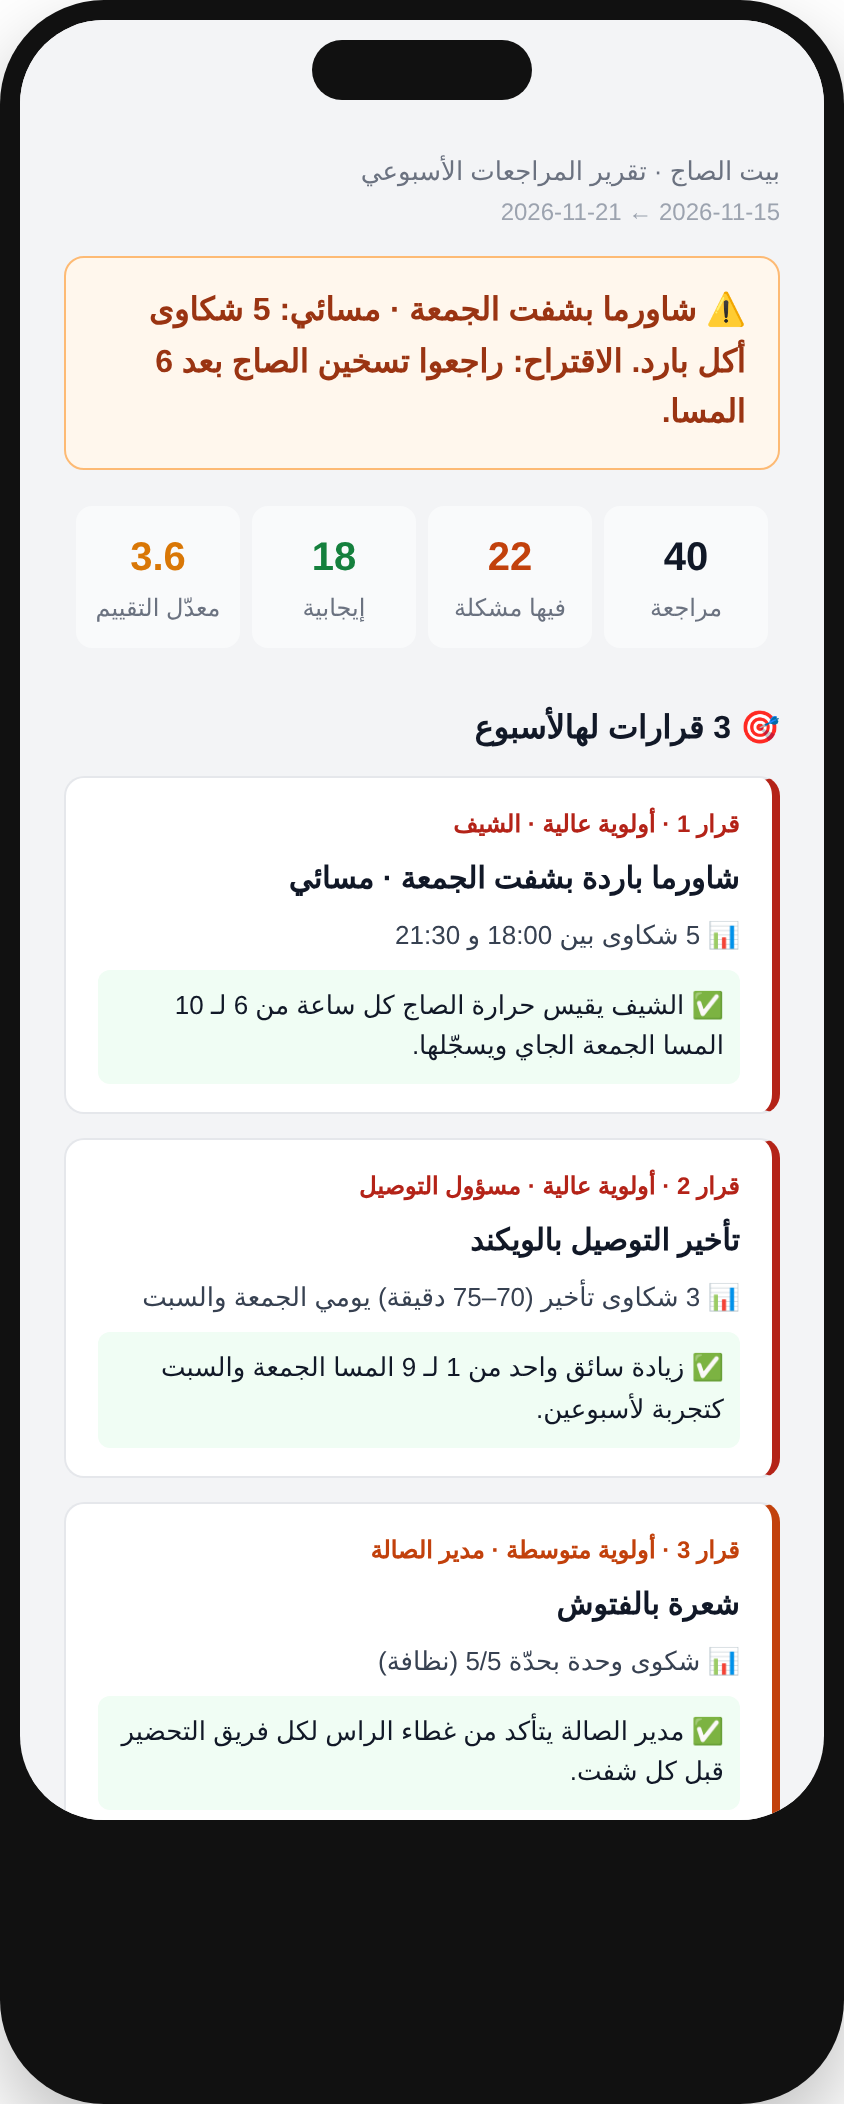
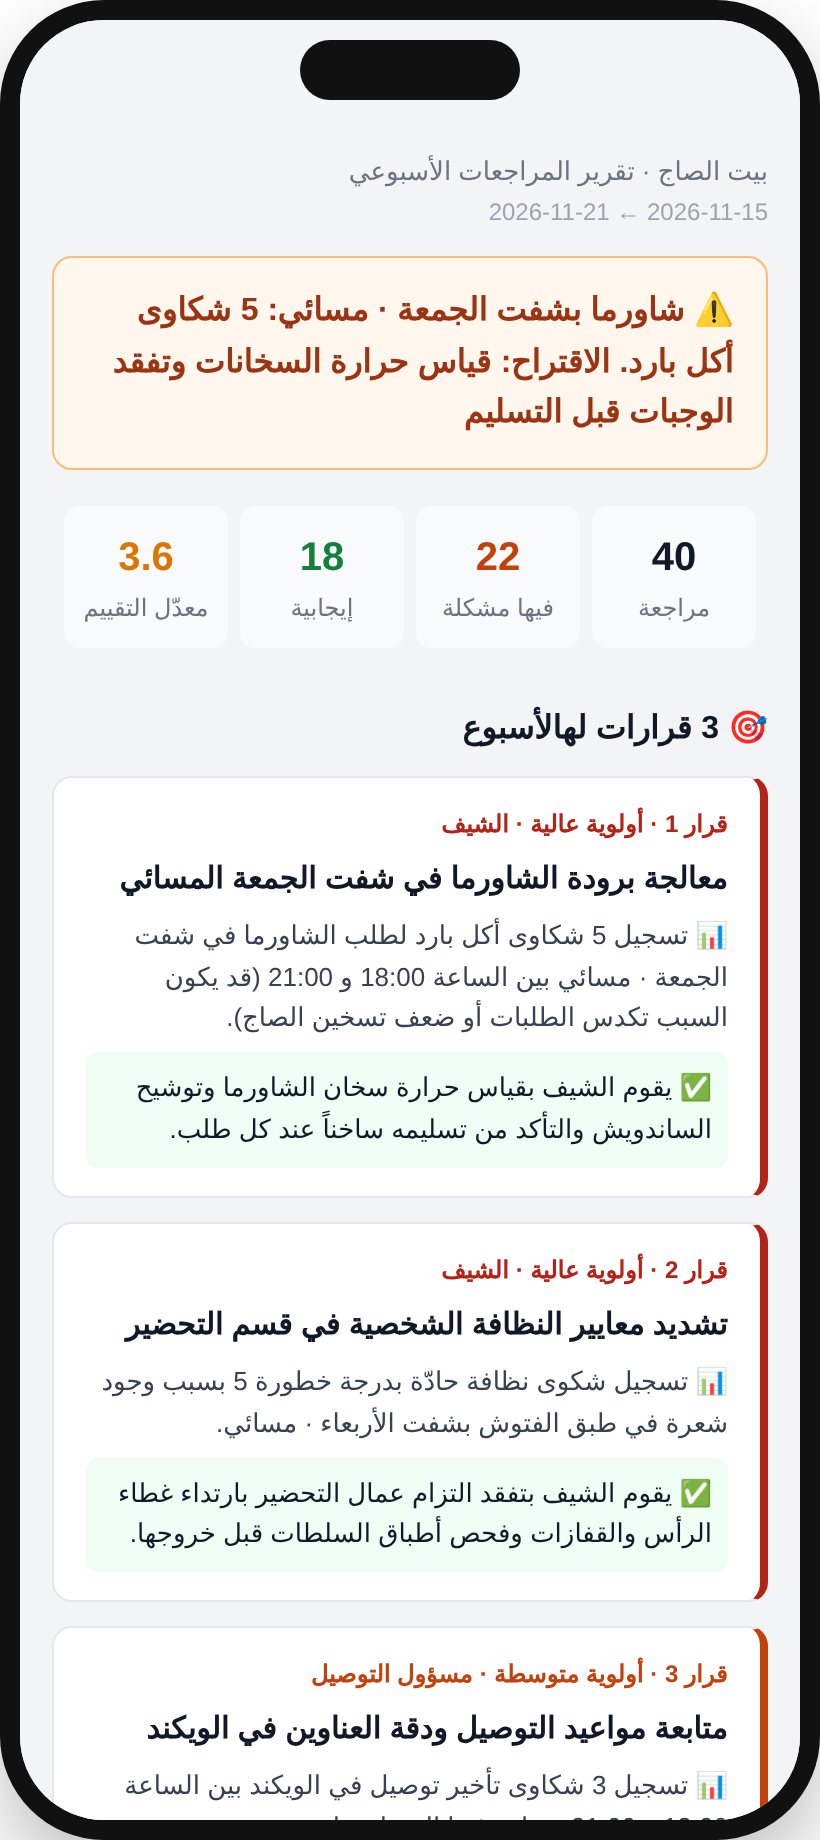
First real run: 40/40 problem detection, 39/40 dish and issue type
- README shows the real email from the run and the measured accuracy
- 'what the plan missed' gains the batching and model-name lessons
- SETUP timing updated (about 100 s per run)

Claude-Session: https://claude.ai/code/session_01WSoAZhBjBkVVjQmiH7nJiS

diff --git a/README.md b/README.md
@@ -37,7 +37,7 @@ These are reviews from the demo data, in Arabic, dialect and English, the way th
 
 **Draft replies.** One per unhappy review, in the customer's language, worst first. They never promise a refund and never blame the customer. Someone still reads them before posting.
 
-<sub>From the offline test. The numbers and tables are real output of the workflow's code. The decision and reply wording is a stand-in, because the model isn't called in that test.</sub>
+<sub>The real email from the first successful run in n8n, with Gemini writing the decisions and replies.</sub>
 
 </td>
 </tr>
@@ -119,7 +119,18 @@ $ node dev/run-local.mjs
 ✅ sheet write-back has exactly the label columns
 ```
 
-This checks the plumbing. How well the model itself tags the reviews gets measured on the first real run, against the same file.
+This checks the plumbing. The model itself was measured on the first real run, against the same file:
+
+| On the real run (Gemini) | Result |
+|---|---|
+| Problem or not | **40 / 40** |
+| Right dish | **39 / 40** |
+| Right problem type | **39 / 40** |
+| The 5 planted cold-shawarma reviews | all 5, all on Friday evening |
+| Hair in the fattoush | hygiene, severity 5 |
+| Last week's reviews | untouched |
+
+The two misses are honest grey areas: R002 complains about the fries in a review that praises the shawarma, and R014's "pricey for the portion size" came out as portion instead of price.
 
 </details>
 
@@ -134,7 +145,9 @@ This checks the plumbing. How well the model itself tags the reviews gets measur
 | The dish as free text | A closed menu list, or the same dish splits into three names. |
 | One grouping: dish × shift × problem | Three. Late deliveries are a weekend pattern spread over shifts, and one grouping hid them. |
 | Nothing on severity | A written 0–5 scale, and single complaints of 4+ always reach the decisions. |
-| The OpenAI node, and an OpenAI key | One HTTP request to any OpenAI-compatible API. I didn't have an OpenAI key, so it runs on Gemini's free tier, one review every 6.5 seconds. Switching provider is two lines in Config. |
+| The OpenAI node, and an OpenAI key | One HTTP request to any OpenAI-compatible API. I didn't have an OpenAI key, so it runs on Gemini's free tier. Switching provider is two lines in Config. |
+| One model call per review | **One call for the whole week.** The first real run sent 41 calls and sat for 10 minutes retrying. Batched, a run takes about 1.5 minutes and two calls. |
+| Pick a model name and move on | The first name I chose was retired for new keys (404), the newest one was overloaded (503). I listed the models the key can use and picked a stable one. |
 | Trust the model's output format | `json_schema` asks for the lists, and code checks every answer anyway, because not every provider enforces the schema strictly. |
 | "Read this week's reviews" | A filter with a demo date, and date parsing for both text and Sheets' serial numbers. |
 | Nothing on bad answers | Validation that flags the review and lets the run continue. |
@@ -249,7 +262,7 @@ Schedule (أحد 9:00)
 2. Import [`data/reviews.csv`](data/reviews.csv) into a new Google Sheet.
 3. In the **Config** node, set `sheet_id`, `sheet_tab` (the tab's name) and `report_to`.
 4. Connect Google Sheets and Gmail, plus a **Header Auth** credential for the model: name `Authorization`, value `Bearer <your key>` (a free Gemini key from Google AI Studio works). Set `D0 · error-alert` as the error workflow in Settings.
-5. Run **Execute workflow**. On the free tier the email arrives in about 5 minutes, because reviews are sent one at a time to stay under the rate limit. For production, clear `reference_date` and publish.
+5. Run **Execute workflow**. The email arrives in about 2 minutes. For production, clear `reference_date` and publish.
 
 Full setup in Arabic, including Google OAuth and costs: [`docs/SETUP.md`](docs/SETUP.md). What to check after the first run: [`docs/review-checklist.md`](docs/review-checklist.md).
 

diff --git a/docs/SETUP.md b/docs/SETUP.md
@@ -45,7 +45,7 @@
 ## 4. أول تشغيل
 
 1. كبسي **Execute workflow** (من `Run manually (test)`)
-2. المتوقع: ~5 دقايق على Gemini المجاني (مراجعة كل 6.5 ثانية عشان ما نتعدّى حد الطلبات)
+2. المتوقع: حوالي دقيقة ونص (كل المراجعات بتروح للموديل بطلب واحد). أول تشغيل حقيقي أخد 100 ثانية.
 3. تأكدي:
    - [ ] **Prepare week** طلّع **40** item (مش 42)
    - [ ] الشيت تعبّى بالأعمدة الجديدة
